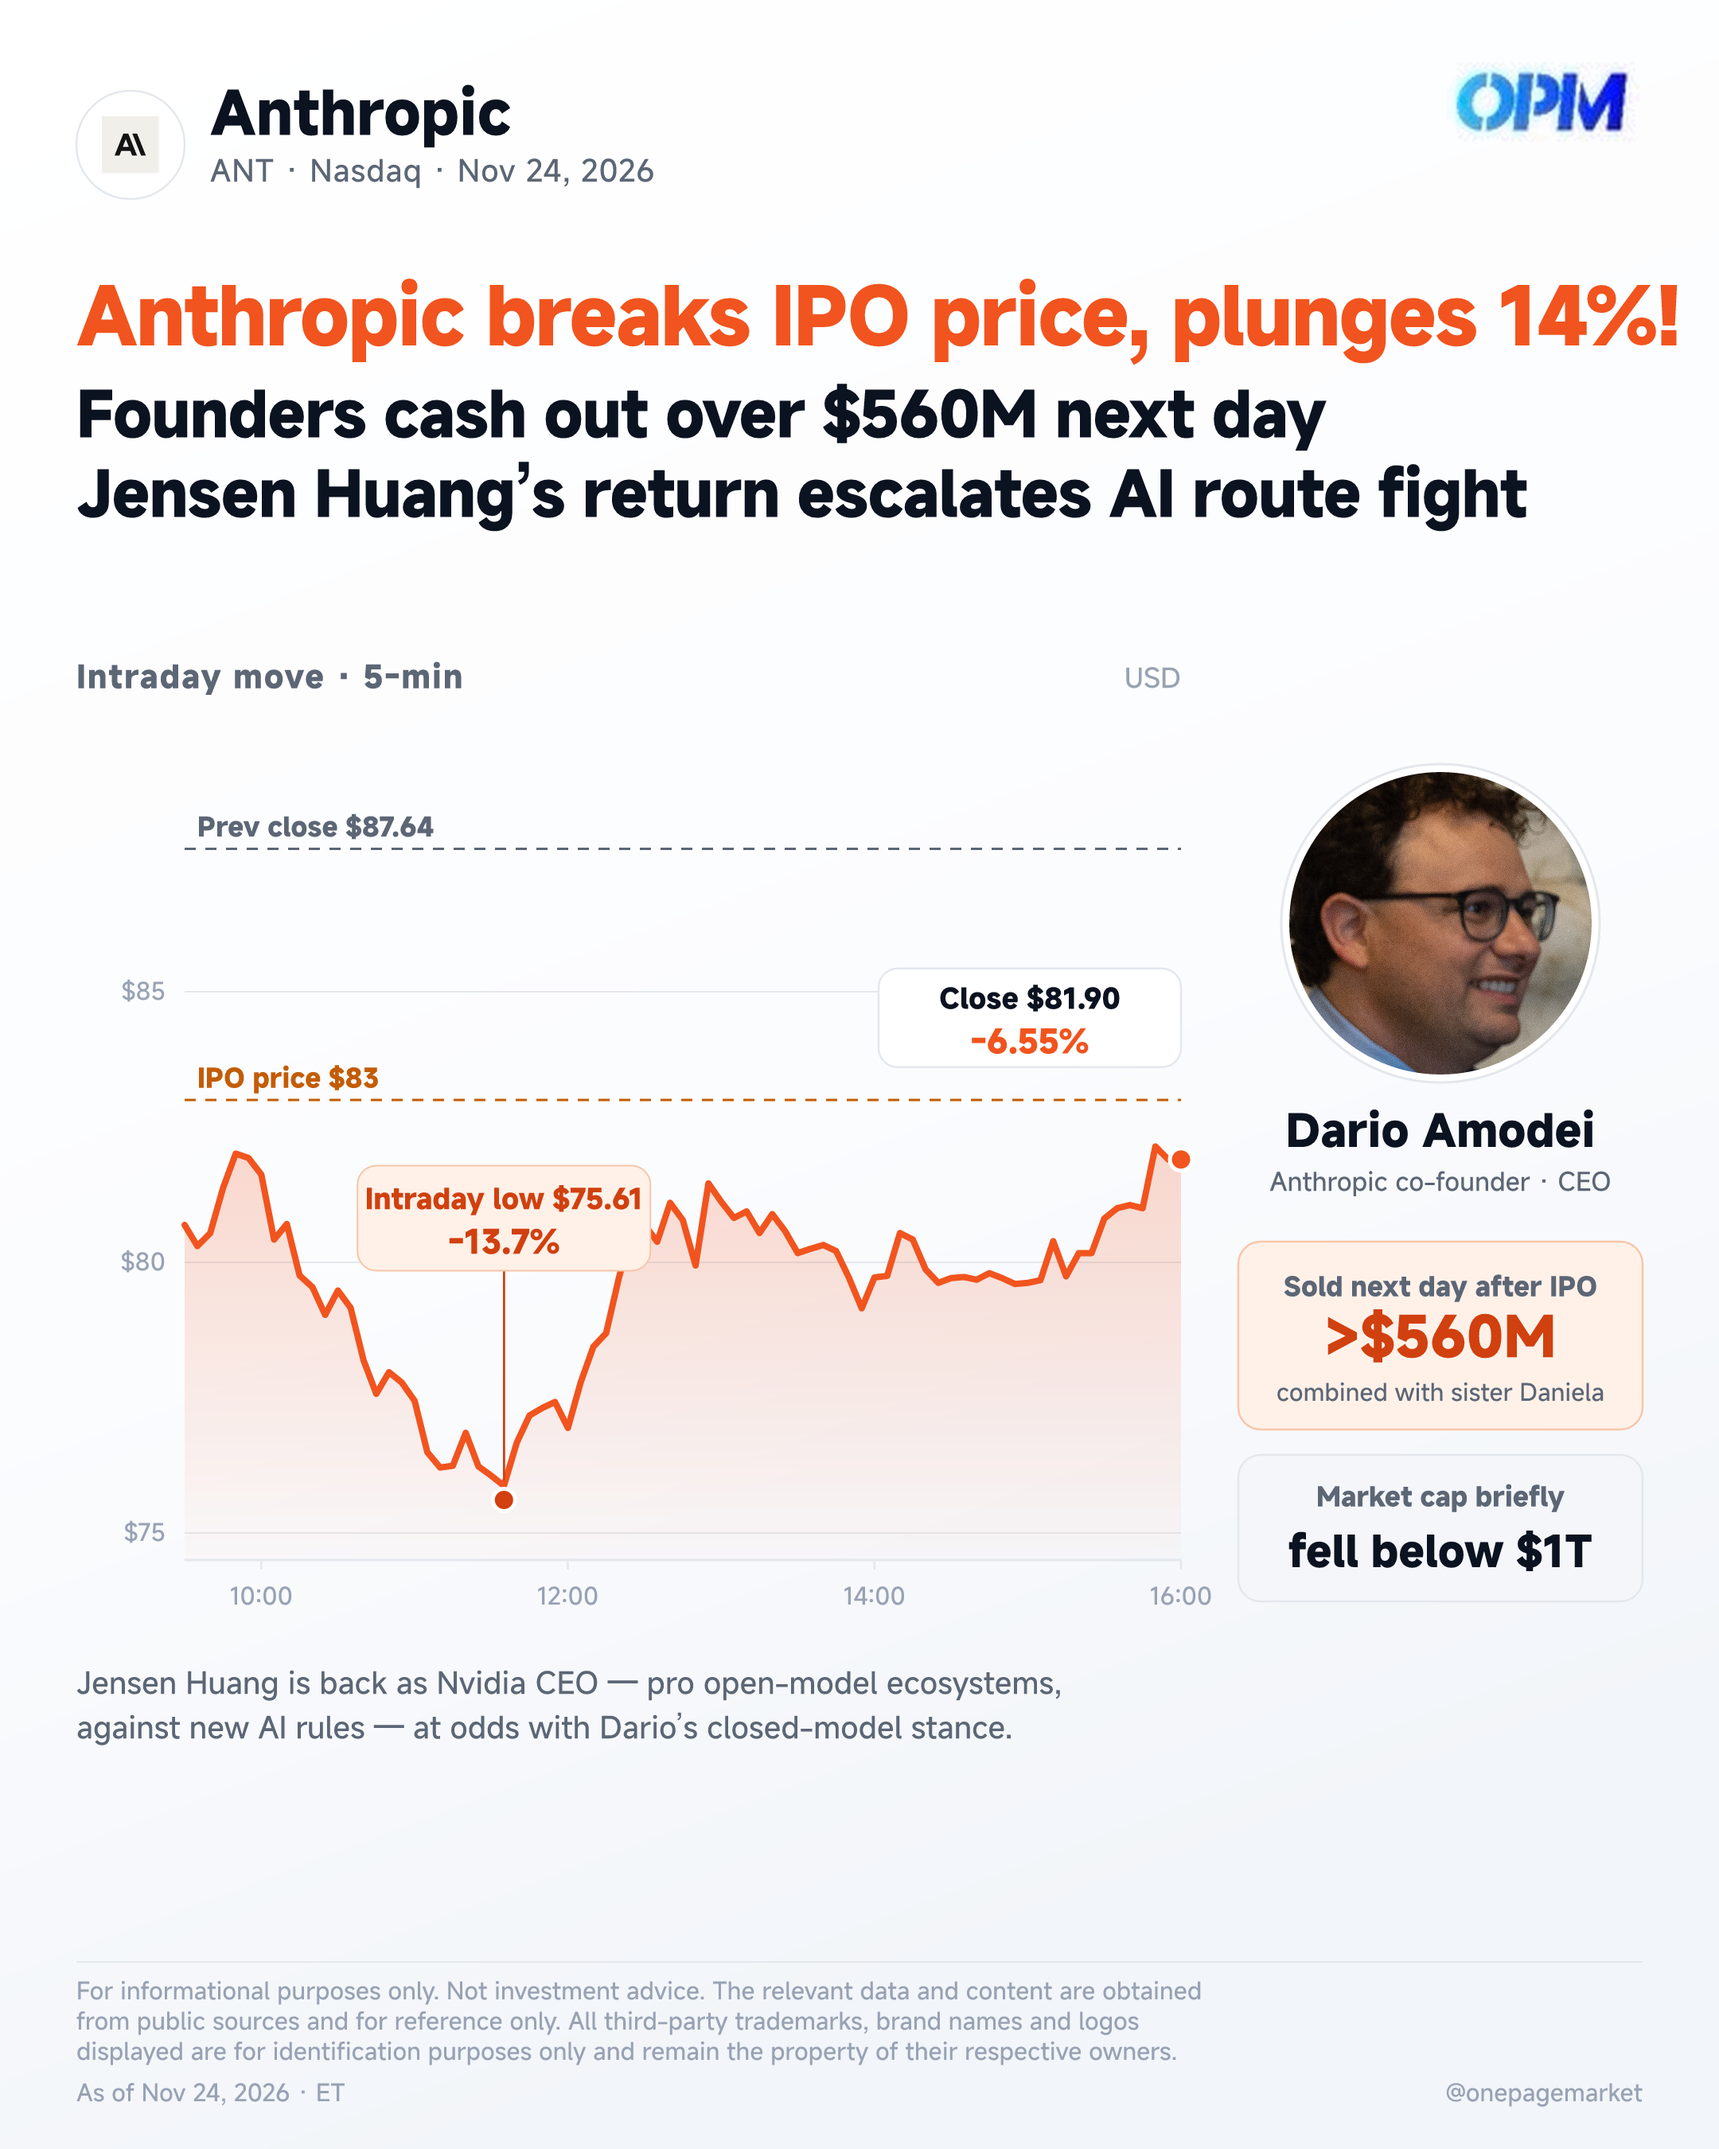
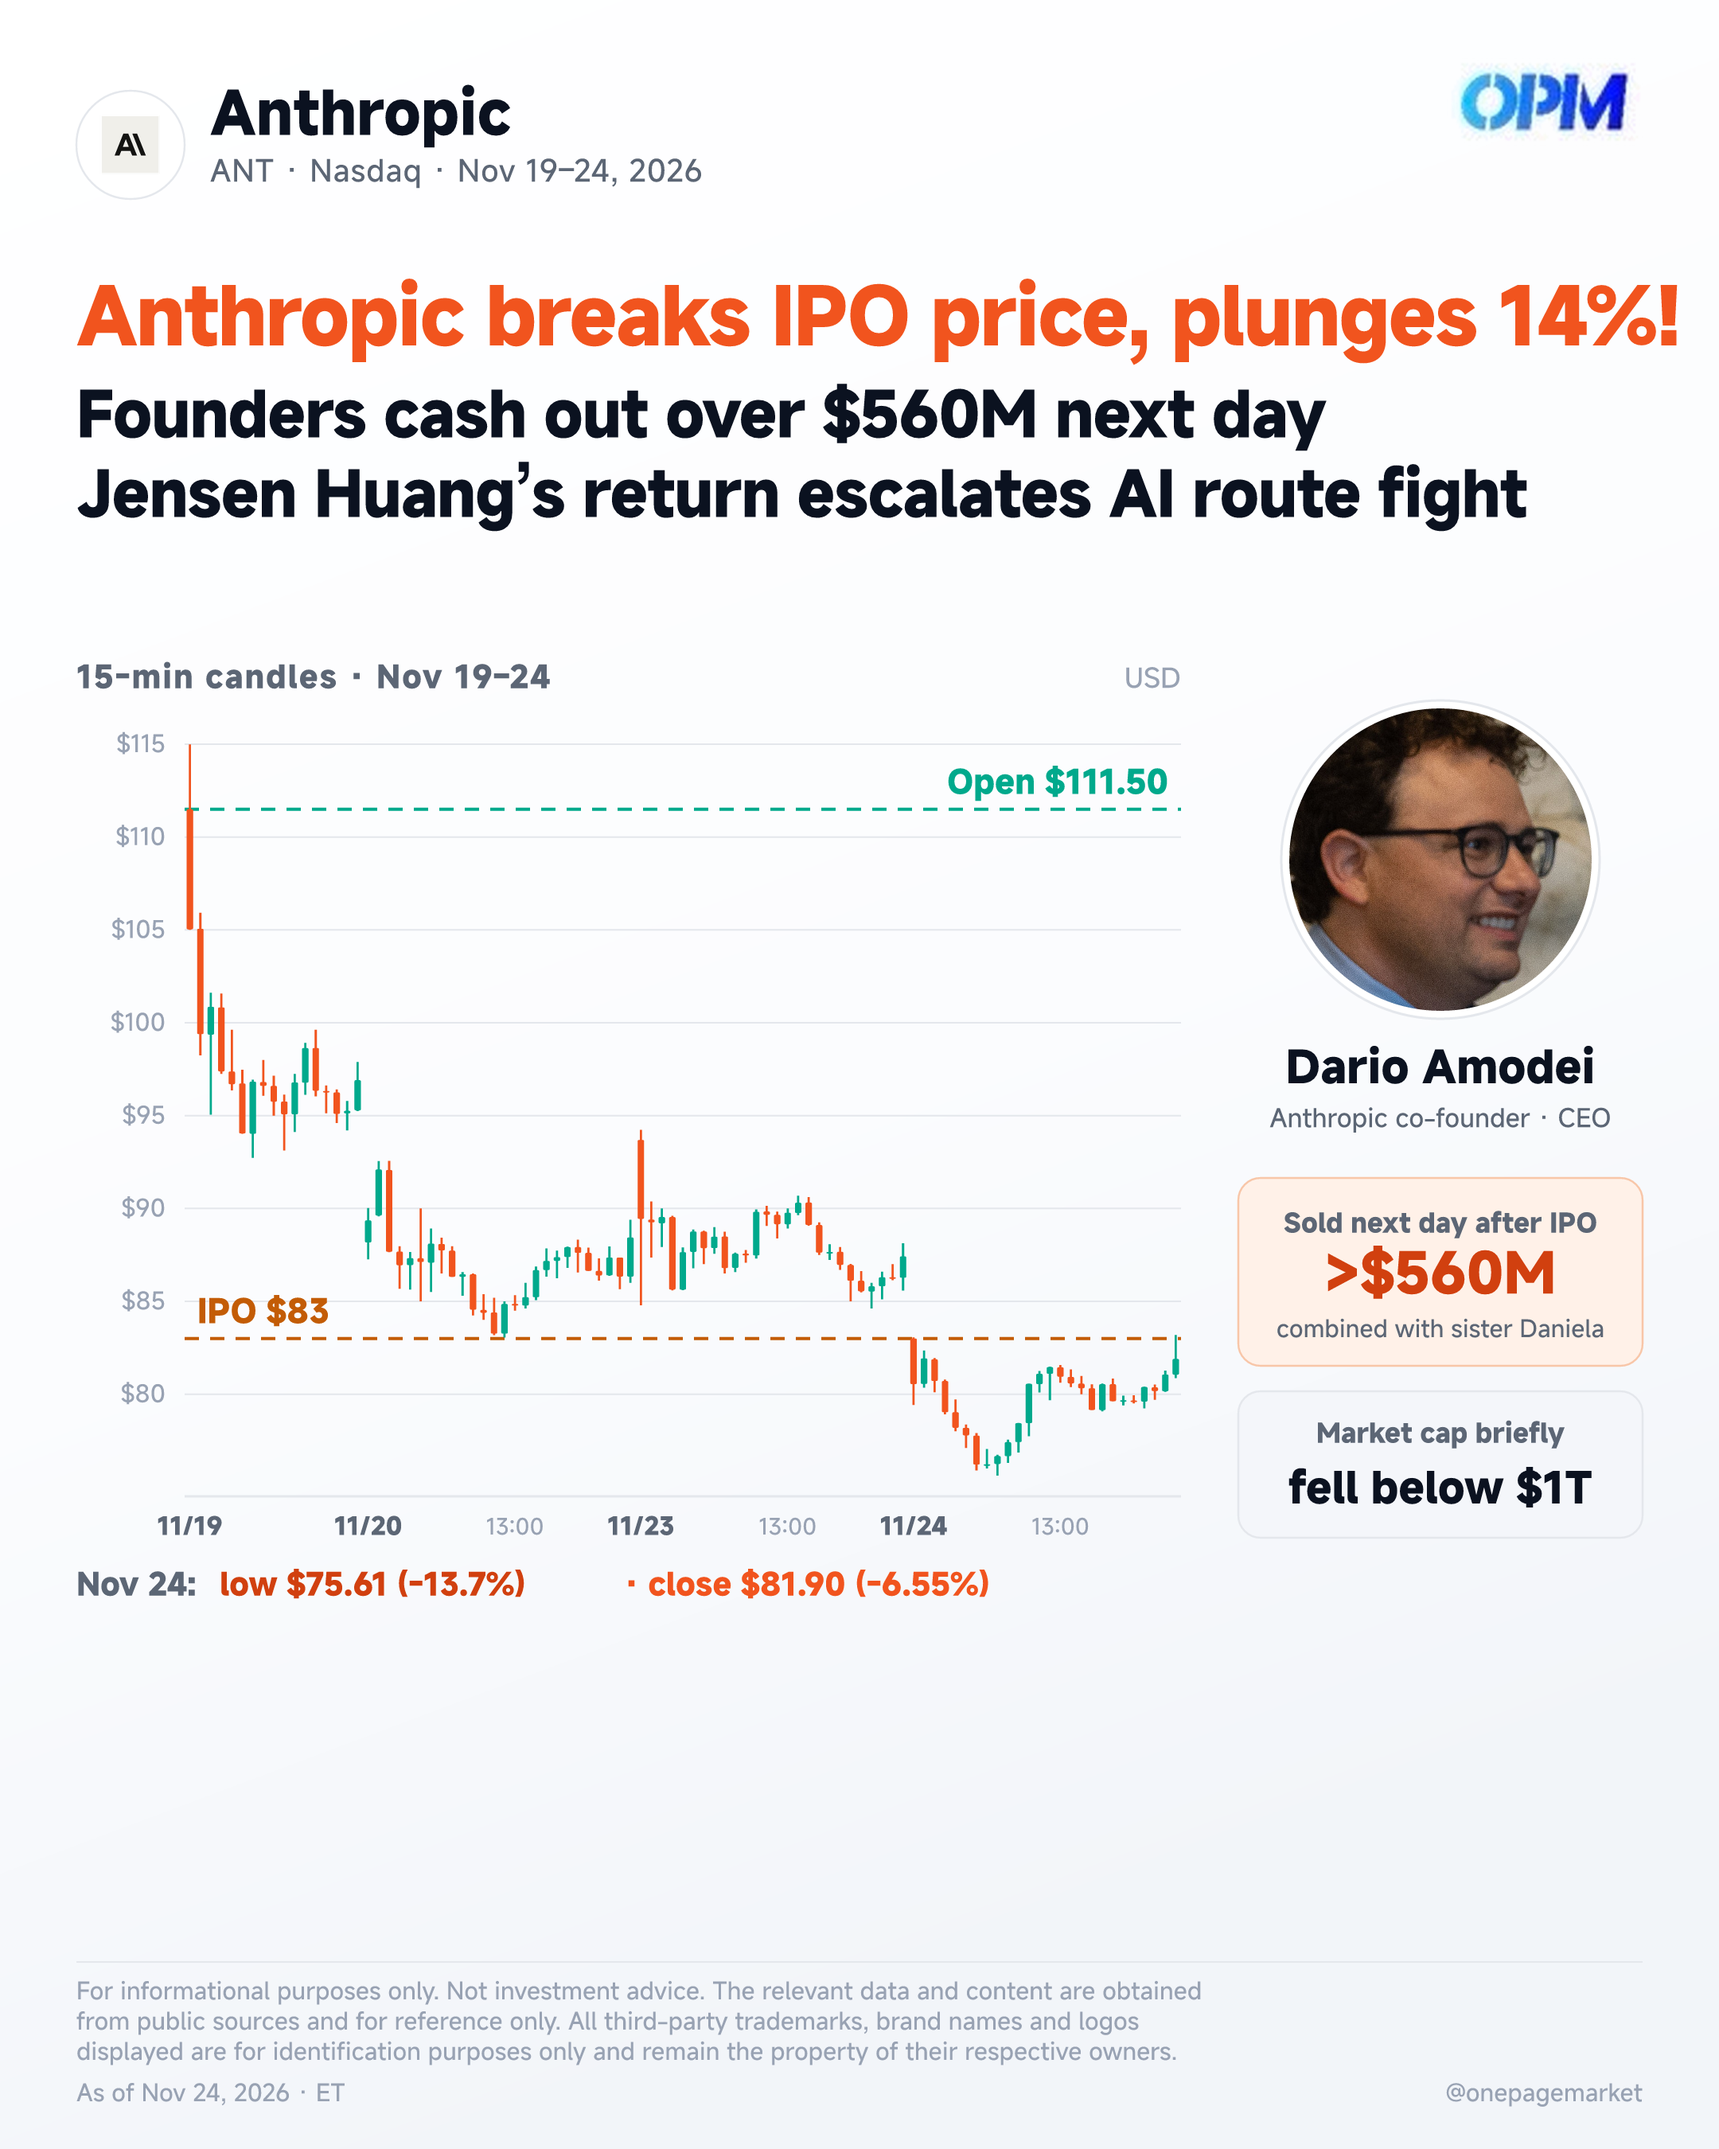
gallery: add ant-break candle png, take down nvda-huang-bounce (incl. out artifacts to _wip)

diff --git a/docs/index.html b/docs/index.html
@@ -101,7 +101,7 @@
 </div>
 <div id="toast"></div>
 <main>
-<section class="sec"><div class="ghead"><b>Nvda Huang Bounce</b><span class="day">2026-11-25 11:06</span></div><div class="tweet"><button class="copy" data-t="Can a CEO's return fix what rates did? Huang's comeback sent NVDA up 31% on Monday. Tuesday handed most of it back: -6% to $155. A returning CEO settles who runs Nvidia. It doesn't settle inflation, the Fed, or what AI capex is worth.">複製文案</button><p>Can a CEO's return fix what rates did? Huang's comeback sent NVDA up 31% on Monday. Tuesday handed most of it back: -6% to $155. A returning CEO settles who runs Nvidia. It doesn't settle inflation, the Fed, or what AI capex is worth.</p><span class="len">234 字</span></div><div class="shots"><div class="shot"><button class="dl" type="button" data-img="img/nvda-huang-bounce-20261125.png" data-name="nvda-huang-bounce-20261125.png" data-label="下載圖片">下載圖片</button><img src="img/nvda-huang-bounce-20261125.png" loading="lazy" alt="nvda-huang-bounce-20261125.png"></div></div></section>
+
 <section class="sec"><div class="ghead"><b>Ant Break</b><span class="day">2026-11-25 11:06</span></div><div class="tweet"><button class="copy" data-t="Anthropic below its $83 IPO price already? Low $75.61, closed $81.90 (-6.55%).
 Founders Dario &amp; Daniela Amodei sold $560M+ the day after listing.
 And Jensen Huang — pro open models, anti new AI rules — is back running Nvidia.">複製文案</button><p>Anthropic below its $83 IPO price already? Low $75.61, closed $81.90 (-6.55%).
